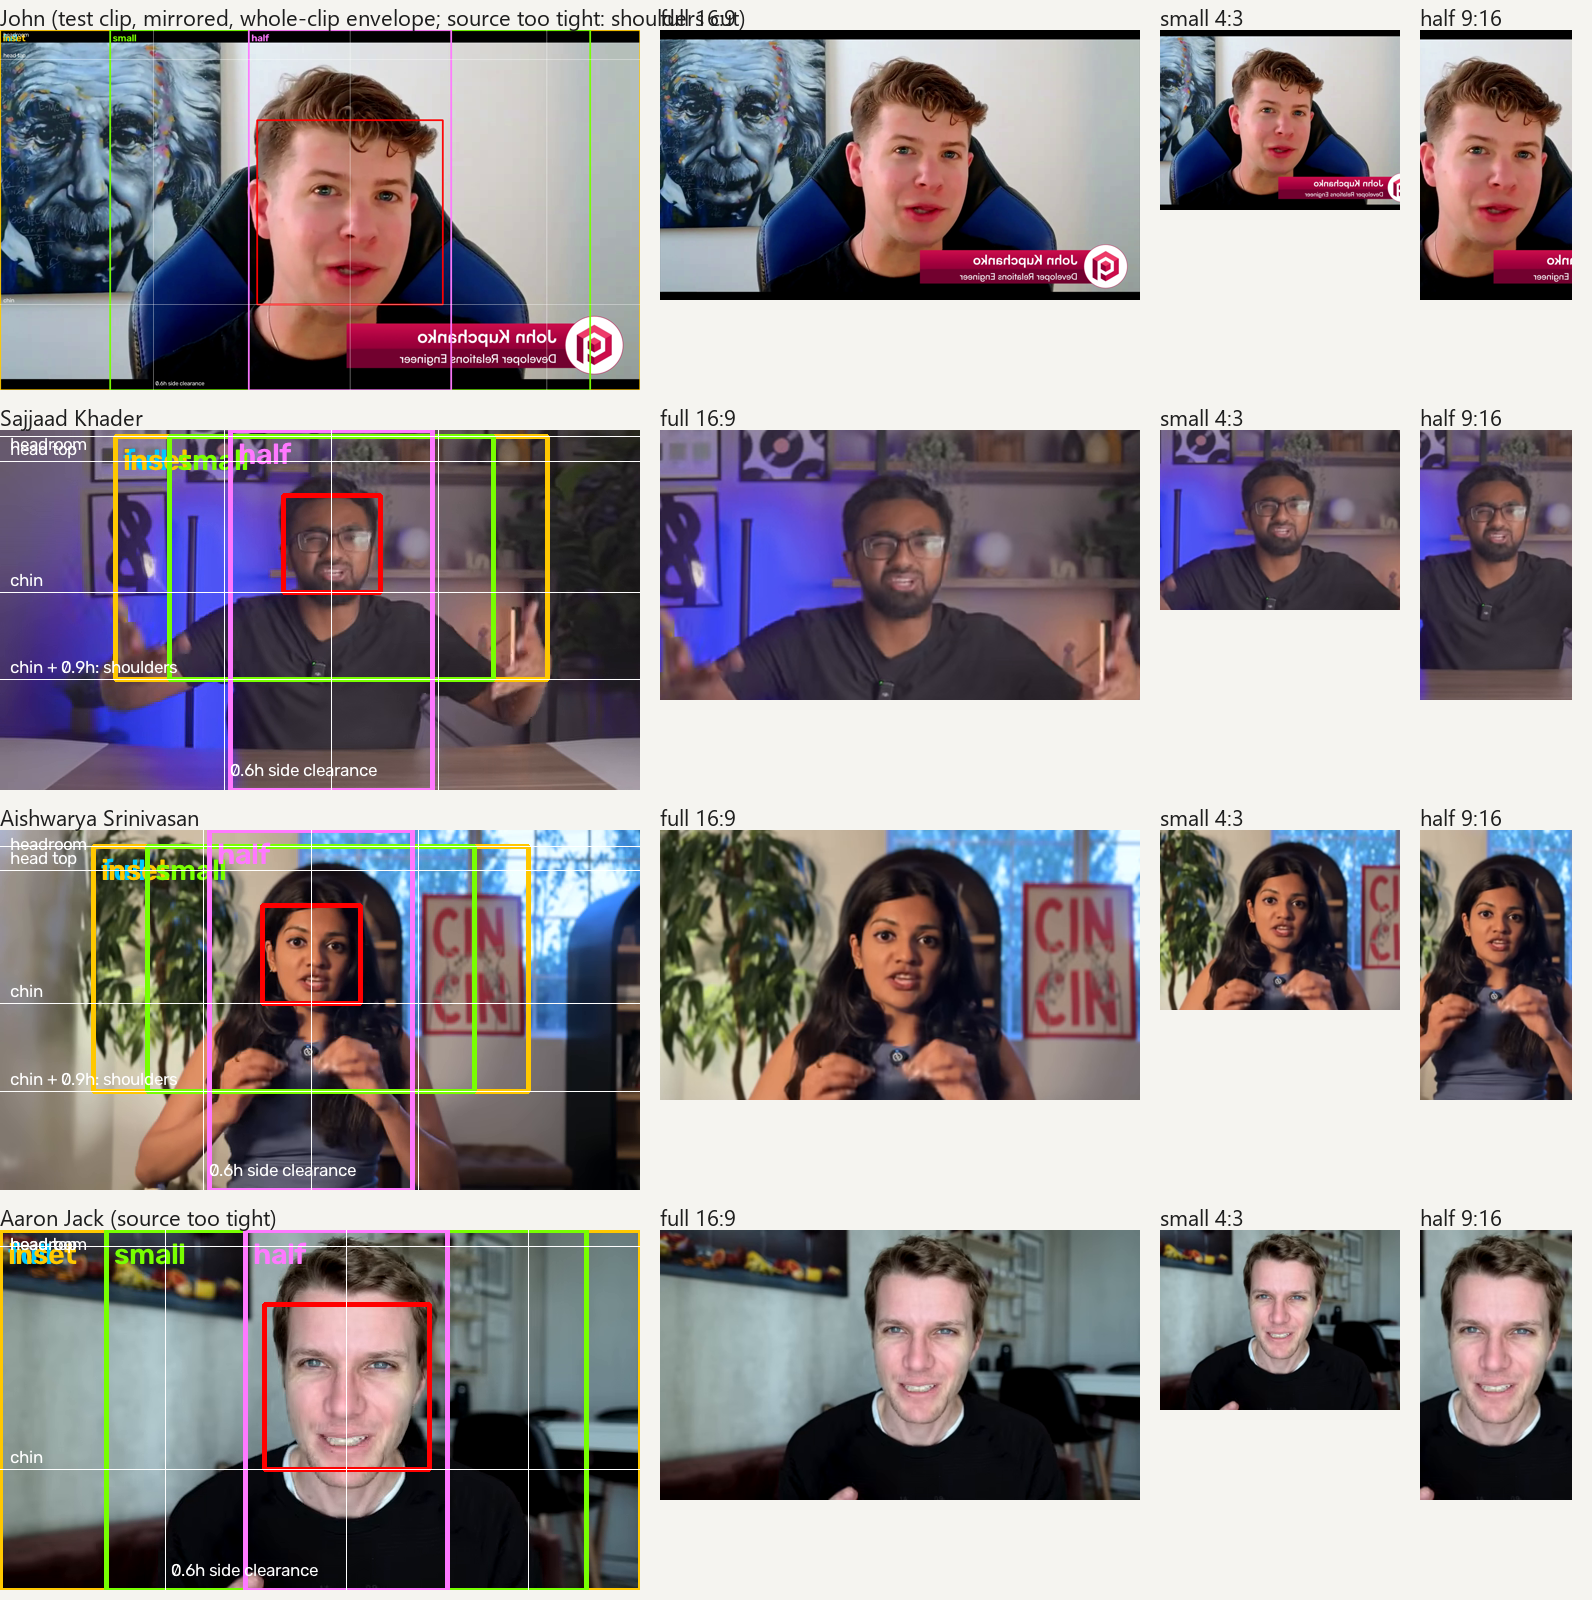
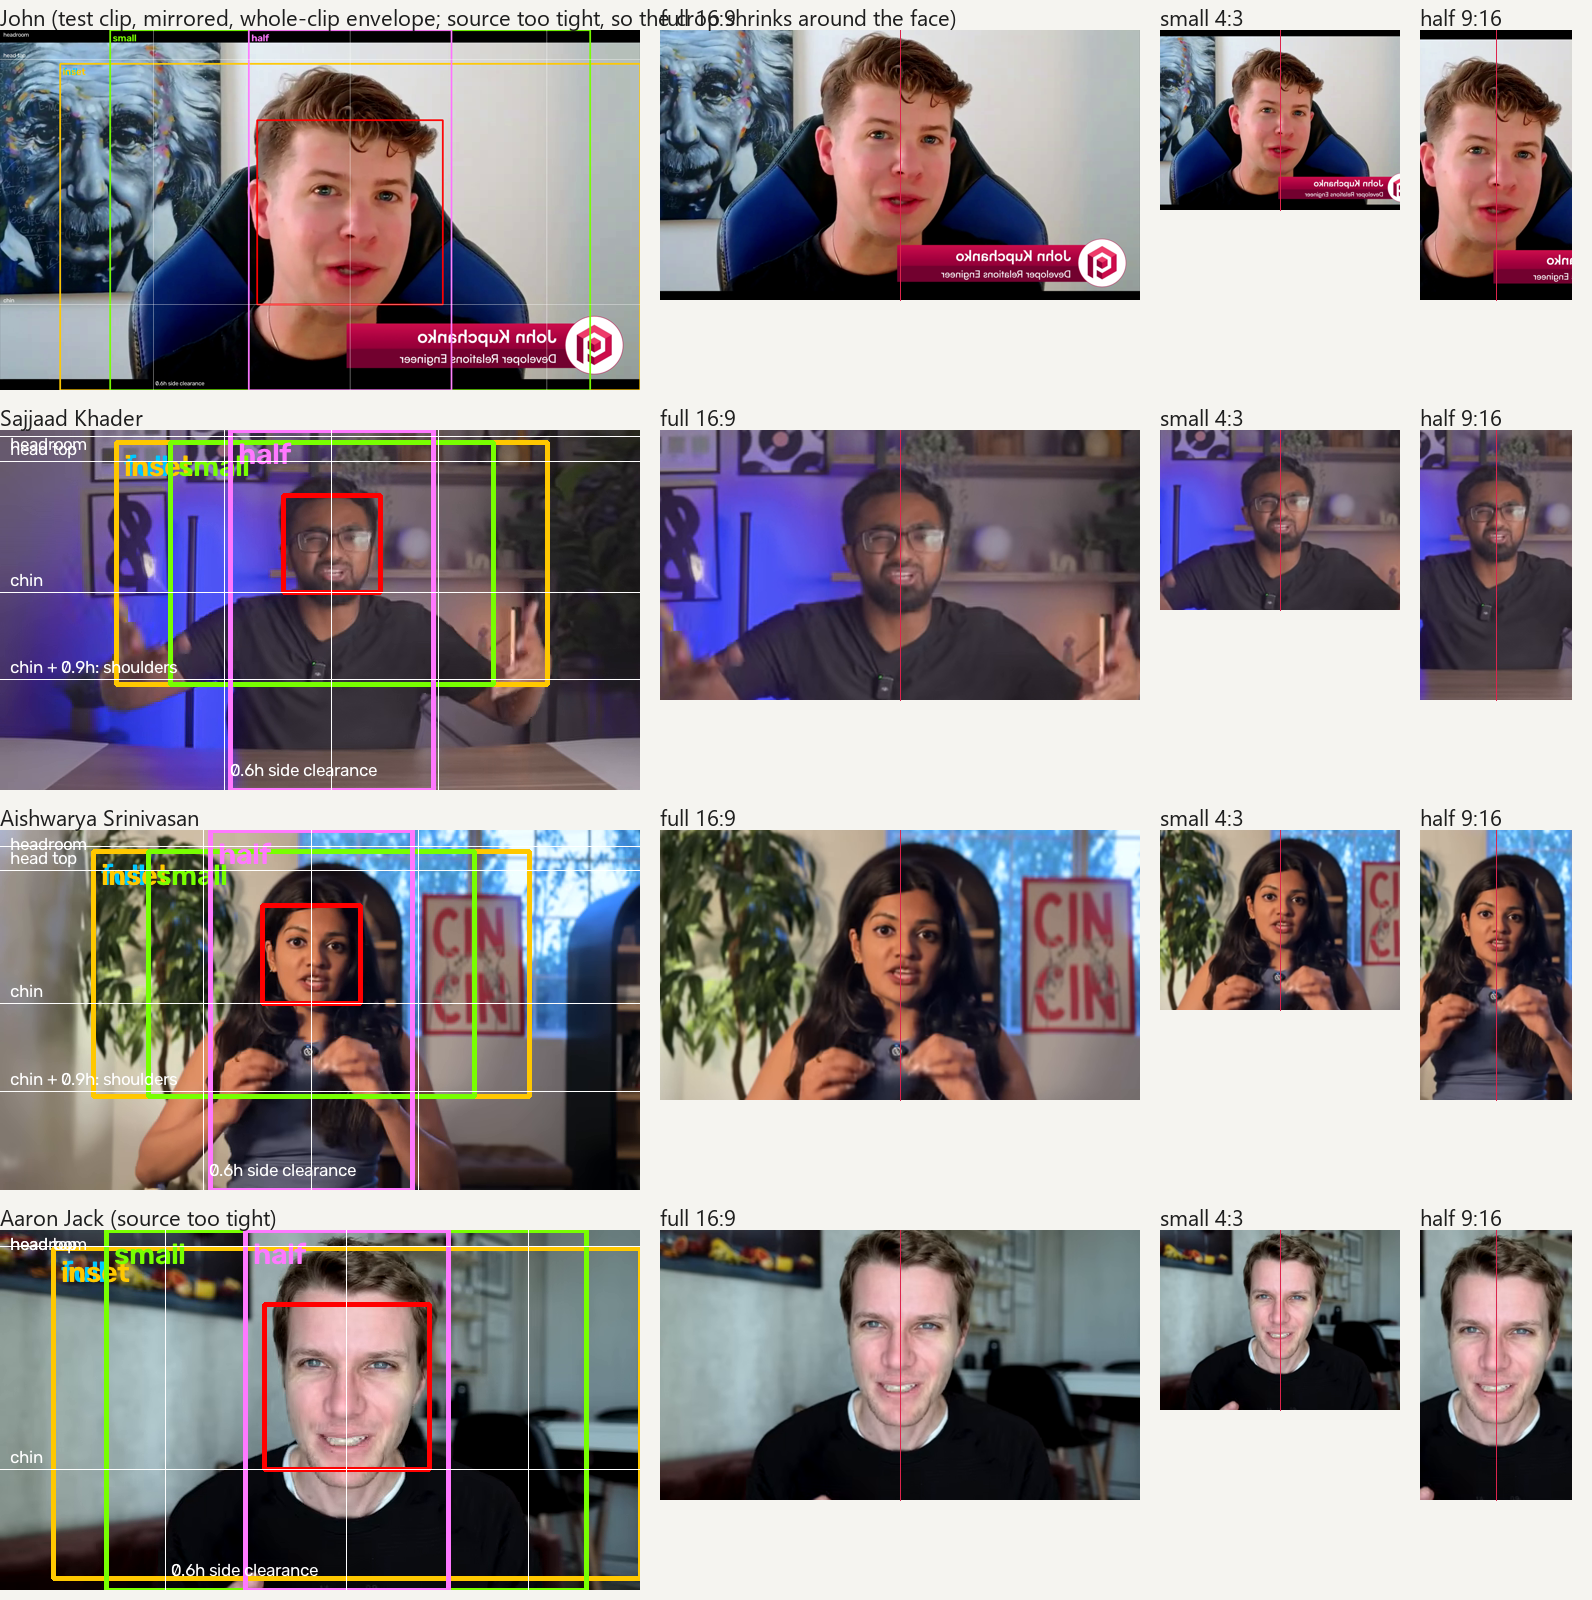
camera-layout: face stays dead centre; crop shrinks around it when the source is tight

diff --git a/skills/camera-layout/scripts/frame_face.py b/skills/camera-layout/scripts/frame_face.py
@@ -58,22 +58,26 @@ def measure(path, step=0.5):
     return img, (float(x), float(y), float(w), float(h)), float(h), 1
 
 def crop_box(env, h, aspect, W, H, headroom=0.25, head_top=0.35, chin_buffer=0.9, side=0.6):
+    """the crop around the face. Horizontal centring on the face is never given up: when the source is too
+    tight, the crop shrinks symmetrically around the face centre instead of sliding sideways."""
     ex, ey, ew, eh = env
+    cx = ex + ew / 2; cy = ey + eh / 2
     top = ey - head_top * h - headroom * h
     bottom = ey + eh + chin_buffer * h
-    left = ex - side * h; right = ex + ew + side * h
-    ch = bottom - top; cw = right - left
-    cx = ex + ew / 2
-    # widen (never shrink) to the aspect, keeping the face centred horizontally
-    if cw / ch < aspect: cw = ch * aspect
-    else: ch = cw / aspect; top = (ey + eh / 2) - ch * 0.42   # face centre a little above the crop centre: eyes near the upper third
-    left = cx - cw / 2; right = cx + cw / 2; bottom = top + ch
-    # clamp to the source, shifting rather than shrinking; report the shift
-    dx = max(0, -left) - max(0, right - W); dy = max(0, -top) - max(0, bottom - H)
-    left += dx; right += dx; top += dy; bottom += dy
-    if left < 0 or right > W or top < 0 or bottom > H:    # still too big: scale the crop down around the face centre
-        k = min(W / cw, H / ch); cw *= k; ch *= k; left = min(max(0, cx - cw / 2), W - cw); top = min(max(0, (ey + eh / 2) - ch * 0.42), H - ch); right, bottom = left + cw, top + ch; dx = dy = 0
-    return (int(left), int(top), int(right), int(bottom)), (dx, dy)
+    ch = bottom - top; cw = ew + 2 * side * h
+    if cw / ch < aspect: cw = ch * aspect            # widen to the aspect (never shrink)
+    else: ch = cw / aspect
+    # the widest crop that keeps the face dead centre horizontally inside the source
+    cw_max = 2 * min(cx, W - cx)
+    if cw > cw_max: cw = cw_max; ch = cw / aspect
+    if ch > H: ch = H; cw = ch * aspect
+    left = cx - cw / 2; right = cx + cw / 2
+    top = cy - 0.42 * ch                             # eyes near the upper third
+    dy = 0
+    if top < 0: dy = -top
+    elif top + ch > H: dy = H - (top + ch)
+    top += dy; bottom = top + ch
+    return (int(round(left)), int(round(top)), int(round(right)), int(round(bottom))), (0, dy)
 
 def main():
     ap = argparse.ArgumentParser(description=__doc__, formatter_class=argparse.RawDescriptionHelpFormatter)

diff --git a/skills/camera-layout/references/layouts.md b/skills/camera-layout/references/layouts.md
@@ -8,8 +8,9 @@ full frame, an inset, a small window or a half panel; only the aspect changes.
 - top: the top of the head (about 0.35 h above the face box) plus 0.25 h of headroom
 - bottom: the chin plus 0.9 h, so the neck and the top of the chest are in and the shoulders read
 - sides: at least 0.6 h of clear space left and right of the face, so a turn or a lean stays inside
-- centre: the face sits on the vertical centre line; its centre lands a little above the crop's middle so
-  the eyes are near the upper third
+- centre: the face sits dead on the vertical centre line, always. When the source is too tight for the
+  clearances, the crop shrinks symmetrically around the face; it never slides sideways to fit. Vertically the
+  face centre lands a little above the crop's middle so the eyes are near the upper third
 - movement: on a recording, measure where the face goes through the whole clip and frame around that
   envelope, not one frame
 
